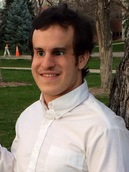
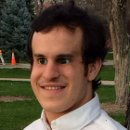
mallory bio; resized q image; made demo camlorn bio; set a place for original photos

diff --git a/src/documents/members/mallory.html.md b/src/documents/members/mallory.html.md
@@ -1,7 +1,14 @@
 ---
-name: Mallory
+name: Mallory van Achterberg
 twitter: stommepoes 
 photo: /images/photos/mal.jpg
 ---
 
-Office worker.
+Front-end web developer. The keyboard is still the most used device in the
+world, though touch screens are caching up fast. So why do most web developers
+assumes everyone uses a mouse? More importantly, why is the mouse the *only*
+input device considered on major sites? Remember, your phone &#8217;s touch
+screen doesn&#8217;t have a &#8220;hover&#8221; state.
+
+I make sure even the stupid things I&#8217;m forced to code at least work with
+keyboard and Make Sense&#8482;

diff --git a/src/documents/members/camlorn.html.md b/src/documents/members/camlorn.html.md
@@ -1,0 +1,7 @@
+---
+name: Austin &#8220;Camlorn&#8221; Hicks 
+twitter: camlorn38
+photo: /images/photos/cam.jpg
+---
+
+Bio here. 
